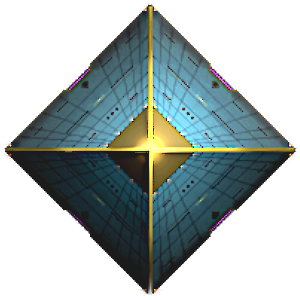
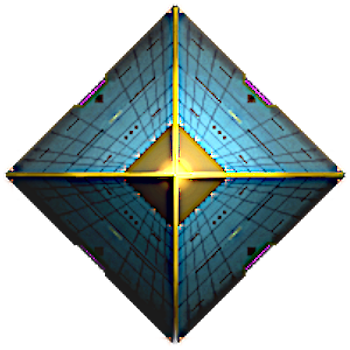
Colotnar Resize

diff --git a/source/server/model/ships/torata/torataColotnarBase2220.php b/source/server/model/ships/torata/torataColotnarBase2220.php
@@ -14,7 +14,7 @@ class TorataColotnarBase2220 extends SmallStarBaseFourSections
 		$this->shipClass = "Colotnar Defense Base (2220)";
 		$this->variantOf = "Colotnar Defense Base";
 		$this->imagePath = "img/ships/TorataColotnar.png";
-		$this->canvasSize = 200;
+		$this->canvasSize = 350;
 		$this->fighters = array("heavy"=>48);
 		$this->isd = 2220;
 

diff --git a/source/server/model/ships/torata/torataColotnarBase2242.php b/source/server/model/ships/torata/torataColotnarBase2242.php
@@ -14,7 +14,7 @@ class TorataColotnarBase2242 extends SmallStarBaseFourSections
 		$this->shipClass = "Colotnar Defense Base (2242)";
 		$this->variantOf = "Colotnar Defense Base";
 		$this->imagePath = "img/ships/TorataColotnar.png";
-		$this->canvasSize = 200;
+		$this->canvasSize = 350;
 		$this->fighters = array("heavy"=>48);
 		$this->isd = 2242;
 
